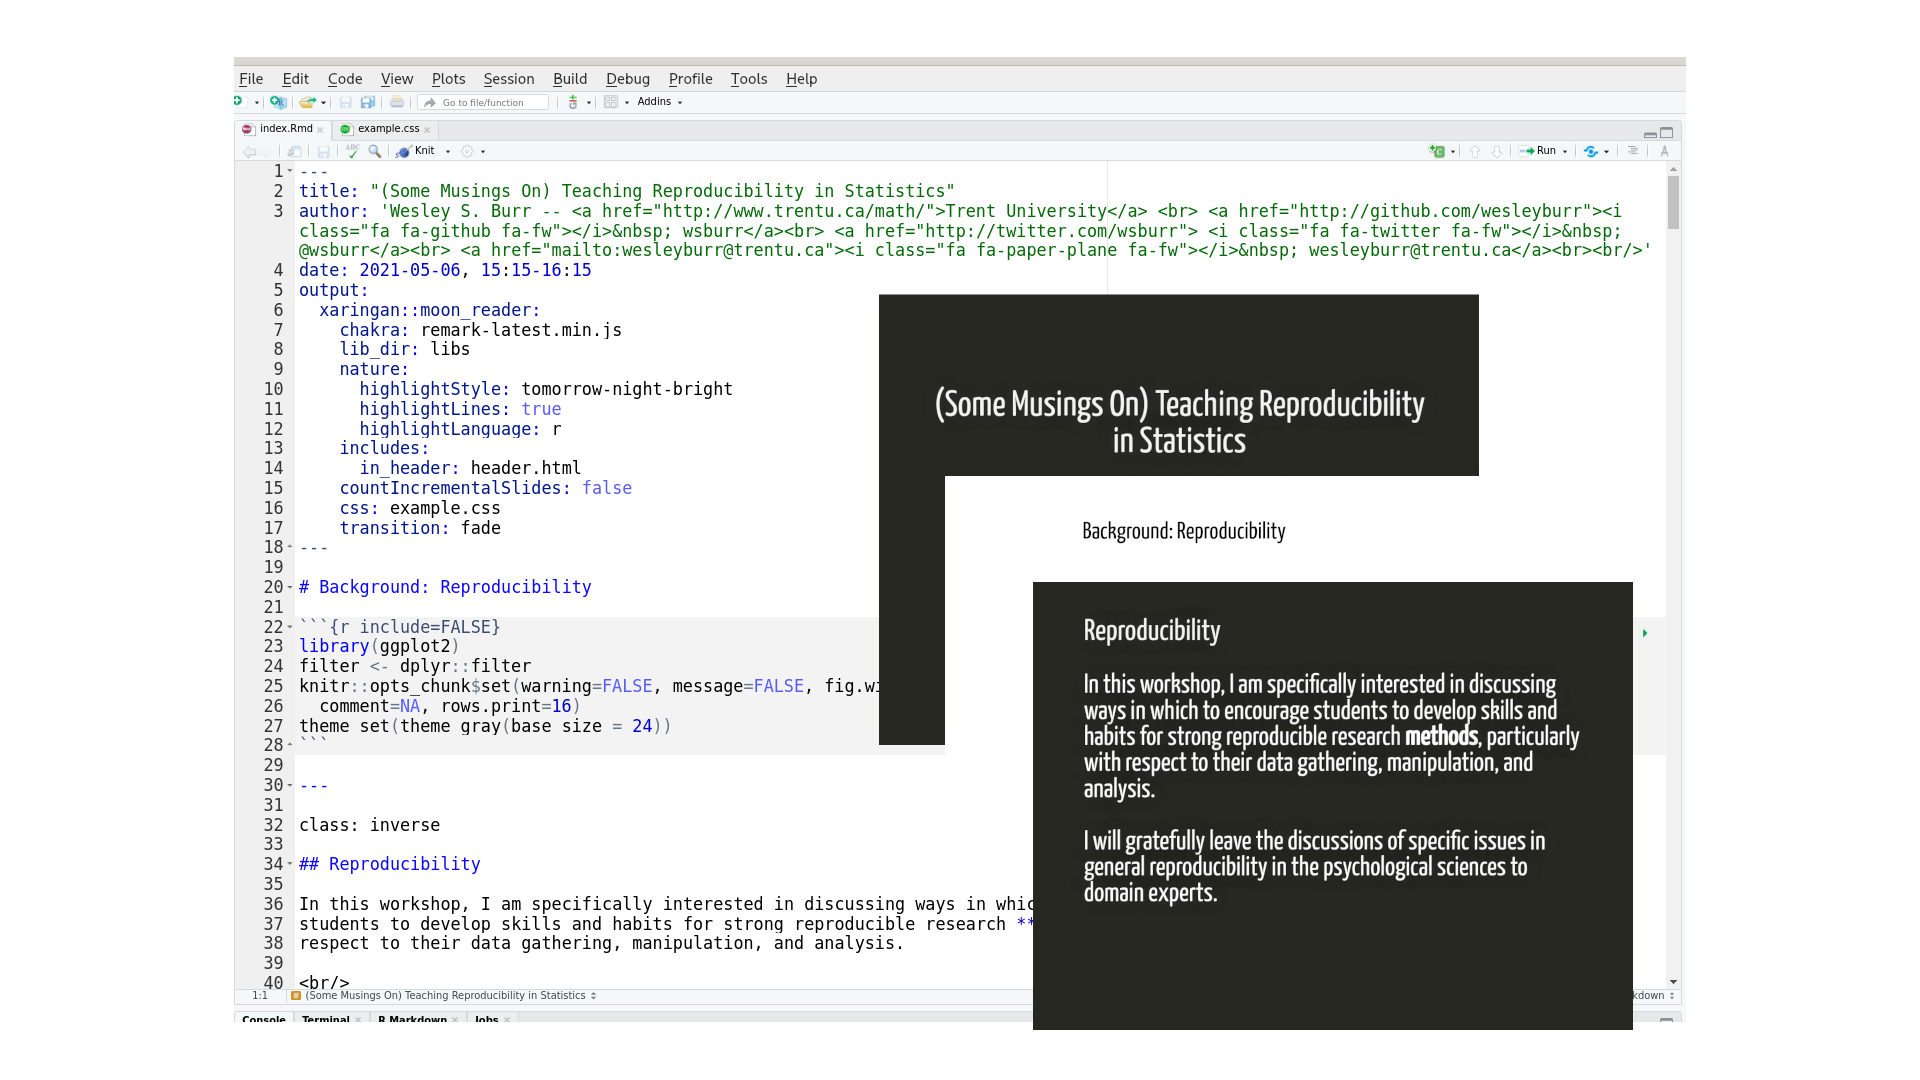
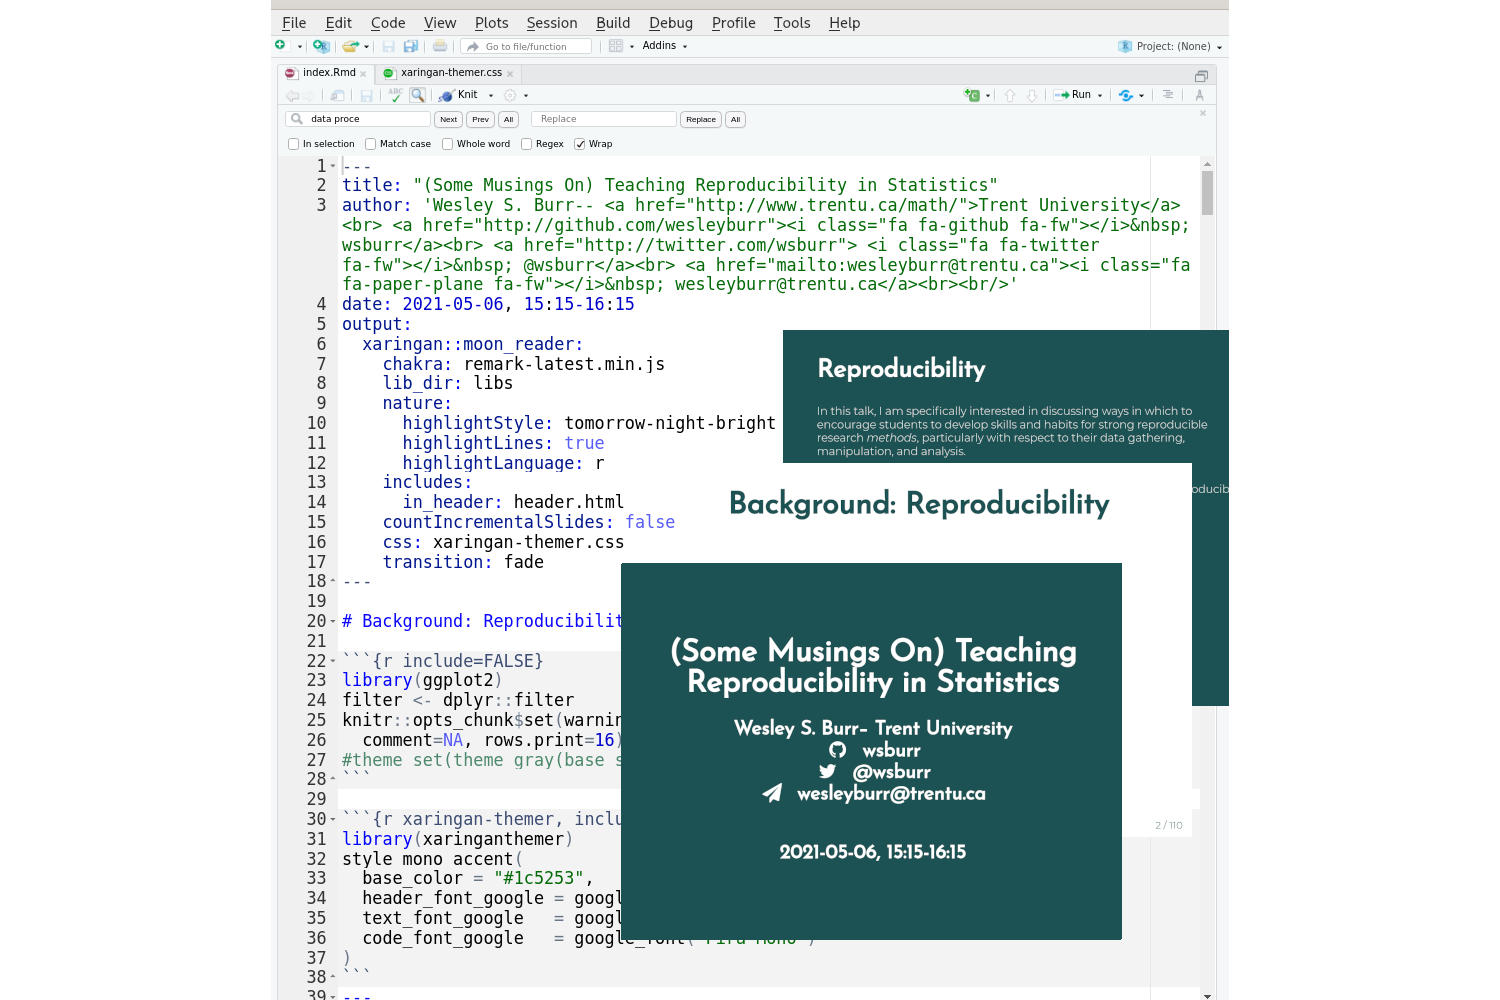
Tweaked formatting some more

diff --git a/index.html b/index.html
@@ -3,7 +3,7 @@
   <head>
     <title>(Some Musings On) Teaching Reproducibility in Statistics</title>
     <meta charset="utf-8" />
-    <meta name="author" content="Wesley S. Burr - Trent University" />
+    <meta name="author" content="Wesley S. Burr– Trent University     wsburr     @wsburr    wesleyburr@trentu.ca  " />
     <script src="libs/header-attrs-2.7/header-attrs.js"></script>
     <script src="https://use.fontawesome.com/5235085b15.js"></script>
     <link rel="stylesheet" href="xaringan-themer.css" type="text/css" />
@@ -13,7 +13,7 @@
 class: center, middle, inverse, title-slide
 
 # (Some Musings On) Teaching Reproducibility in Statistics
-### Wesley S. Burr - Trent University
+### Wesley S. Burr– <a href="http://www.trentu.ca/math/">Trent University</a> <br> <a href="http://github.com/wesleyburr"><i class="fa fa-github fa-fw"></i>  wsburr</a><br> <a href="http://twitter.com/wsburr"> <i class="fa fa-twitter fa-fw"></i>  <span class="citation">@wsburr</span></a><br> <a href="mailto:wesleyburr@trentu.ca"><i class="fa fa-paper-plane fa-fw"></i>  wesleyburr@trentu.ca</a><br><br/>
 ### 2021-05-06, 15:15-16:15
 
 ---
@@ -36,7 +36,7 @@ respect to their data gathering, manipulation, and analysis.
 
 &lt;br/&gt;
 I will gratefully leave the discussions of specific issues in general reproducibility
-in the psychological sciences to domain experts. 
+in the psychological sciences to domain experts (like Chris this morning!).
 
 ---
 
@@ -95,10 +95,7 @@ https://doi.org/10.1190/1.1822162
 
 To make any research project computationally reproducible
 
-- all data and files clearly:
-    - separated
-    - labelled
-    - documented
+- all data and files clearly: separated; labelled; documented
     
 --
 
@@ -141,8 +138,8 @@ I strongly endorse **Data Carpentry**, workshops teaching scientists
 basic skills in this sort of thinking.
 
 &lt;br/&gt;
-Even if you don't do this for your research, if you expect to teach it properly,
-you have to know how to do it! 
+Even if you don't do this kind of process for your research (and if you do statistics,
+you *should*!), if you expect to teach it properly, you have to know how to do it! 
 
 &lt;br/&gt;
 *Physician, heal thyself*
@@ -420,7 +417,7 @@ m
 ```
 
 ```
-[1] 0.01070908
+[1] 0.07714719
 ```
 
 The code and results are right there!
@@ -642,7 +639,7 @@ background-size: contain
 
 background-image: url("figure/student_2.png")
 background-position: center
-background-size: contain
+background-size: 700px 475px
 
 ## Actual Student Example #2
 
@@ -650,22 +647,22 @@ background-size: contain
 
 background-image: url("figure/student_3.png")
 background-position: center
-background-size: contain
+background-size: 700px 475px
 
 ## Actual Student Example #3
 
 ---
 
-
+class: inverse
 
 ## Musings
 
-- I'm a statistician, and work with (and write) software every day of my professional life
+- Bias: I'm a statistician, and work with (and write) software every day of my professional life
 
 --
 
 - However ...
-    - software is eating the world!
+    - software is [eating the world!](https://a16z.com/2011/08/20/why-software-is-eating-the-world/)
     - we **owe** it to our students to prepare them to use the actual tools of science
     - even if it's uncomfortable for us, we have to adapt and change and grow: 
     the **current** best practices will not be the same in 5, 10, 20 years
@@ -684,7 +681,7 @@ background-size: contain
 
 ---
 
-
+class: inverse
 
 ## Encouragement
 
@@ -709,7 +706,7 @@ background-size: contain
 
 ---
 
-
+class: inverse
 
 ## Some Good References to Get Started
 
@@ -720,7 +717,7 @@ The Book: [R Markdown, the Definitive Guide](https://bookdown.org/yihui/rmarkdow
 
 ---
 
-
+class: inverse
 
 ## References
 
@@ -739,7 +736,7 @@ Dr. Mine Çetinkaya-Rundel, [Teaching R, 5 Principles](https://mine-cetinkaya-ru
 ---
 
 layout: false
-class: middle
+class: middle, inverse
 
 &lt;center&gt;
 &lt;a href="http://www.trentu.ca/math/"&gt;&lt;img src="figure/trent.png" style="width: 200px;"/&gt;&lt;/a&gt; &amp;emsp;&amp;emsp;

diff --git a/xaringan-themer.css b/xaringan-themer.css
@@ -50,9 +50,10 @@
   --text-bold-color: #1c5253;
   --code-highlight-color: rgba(255,255,0,0.5);
   --inverse-text-color: #FFFFFF;
+  --inverse-text-bold-color: #FFFFFF;
   --inverse-background-color: #1c5253;
   --inverse-header-color: #FFFFFF;
-  --inverse-link-color: #1c5253;
+  --inverse-link-color: #FFFFFF;
   --title-slide-background-color: #1c5253;
   --title-slide-text-color: #FFFFFF;
   --header-background-color: #1c5253;
@@ -104,7 +105,7 @@ h1, h2, h3 {
 }
 .remark-slide-number {
   color: #1c5253;
-  opacity: 1;
+  opacity: 0;
   font-size: 0.9em;
 }
 strong { color: var(--text-bold-color); }
@@ -124,14 +125,18 @@ a, a > code {
 .inverse {
   background-color: var(--inverse-background-color);
   color: var(--inverse-text-color);
-  
 }
 .inverse h1, .inverse h2, .inverse h3 {
   color: var(--inverse-header-color);
 }
 .inverse a, .inverse a > code {
   color: var(--inverse-link-color);
+  font-weight: bold;
 }
+.inverse strong {
+  color: var(--inverse-text-bold-color);
+}
+
 .title-slide, .title-slide h1, .title-slide h2, .title-slide h3 {
   color: var(--title-slide-text-color);
 }
